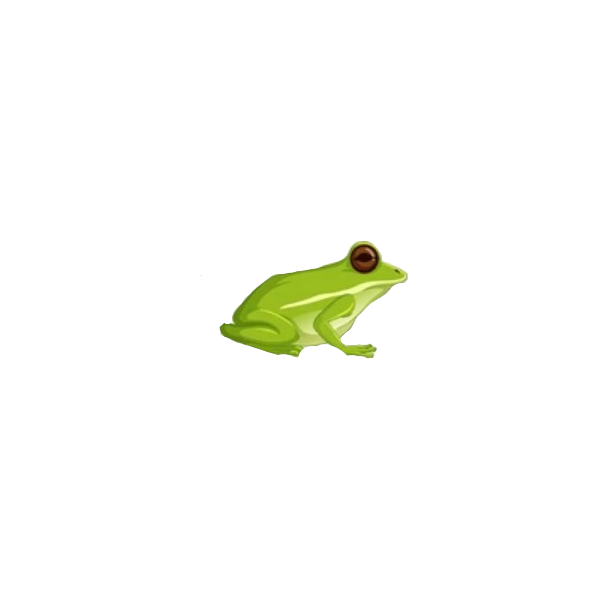
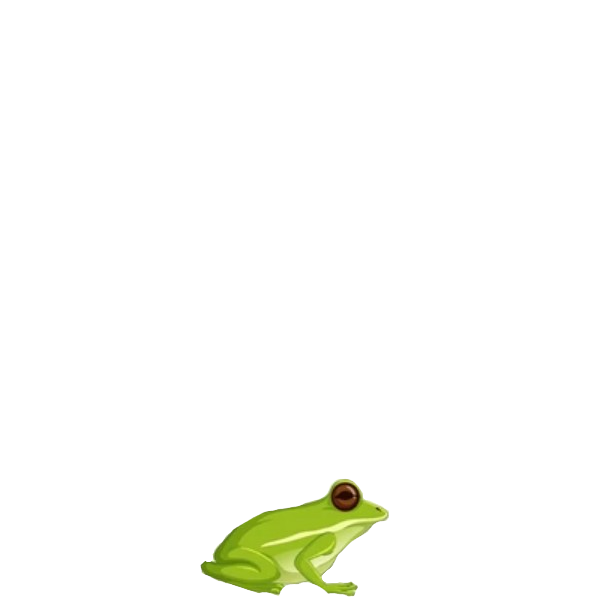
multi-columns

Changed region(s): [[0.36, 0.39, 0.69, 0.6], [0.33, 0.78, 0.66, 1.0]]

diff --git a/Project-1-submission/contact-us.html b/Project-1-submission/contact-us.html
@@ -41,6 +41,19 @@
               <input type="submit" value="Submit">
             </div>
           </form>
-          
+          <div class="multi-column">
+            <p>
+            <img src="img/frog-jump1.png" alt="frog-jump1" width="100%" height="auto">
+            </p>
+            <p>
+            <img src="img/frog-jump2.png" alt="frog-jump2" width="100%vh" height="auto">
+            </p>
+            <p>
+            <img src="img/frog-jump3.png" alt="frog-jump3" width="100%vh" height="auto"> 
+            </p>
+            <p>
+            <img src="img/frog-jump4.png" alt="frog-jump4" width="100%vh" height="auto">
+            </p>
+          </div>
     </body>
 </html>

diff --git a/Project-1-submission/css/global.css b/Project-1-submission/css/global.css
@@ -42,7 +42,10 @@ body::before {
     padding-top: 6.5rem;
 }
 
-
+.multi-column {
+    column-count: 4;
+    column-span: 1;
+}
 
 .table a{
     color: rgb(0, 0, 0);
